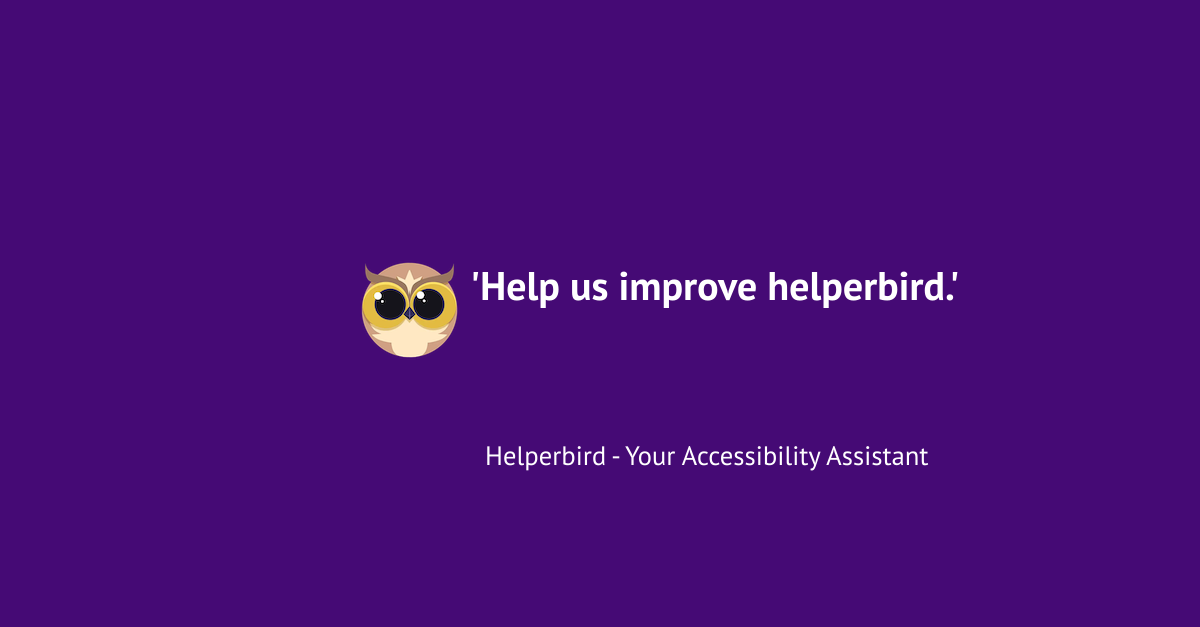
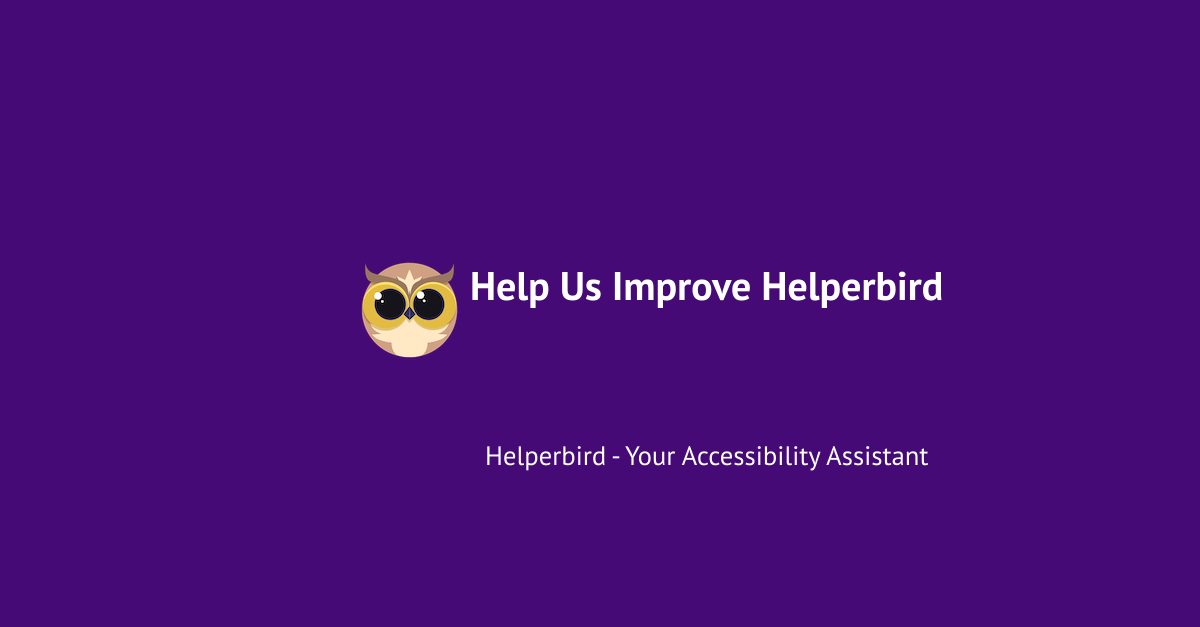
Deploying to gh-pages from  @ 3642a81d4543d754d0eec17c50441be7196d492d 🚀

Changed region(s): [[0.37, 0.4242, 0.8017, 0.4848]]

diff --git a/feedback/index.html b/feedback/index.html
@@ -3,7 +3,7 @@
 <head>
   <meta charset="utf-8">
   <meta name="viewport" content="width=device-width, initial-scale=1.0">
-  <title>Feedback for Helperbird - Helperbird</title>
+  <title>Share Your Feedback with Helperbird - Helperbird</title>
   <link href="/assets/js/main.css" rel="stylesheet" />
   <script>
     if ('serviceWorker' in navigator) {
@@ -12,30 +12,34 @@
   </script>
 
   <link rel="canonical" href="https://www.helperbird.com/feedback/">
-  <meta name="description" content="Feedback for Helperbird,Helperbird for Edge,Helperbird for Firefox,Opendyslexic for Chrome,OpenDyslexic,Text to speech,Voice typing, Dyslexia software,        Reading Mode for Google Chrome,Reading Mode for Edge,Voice typing for chrome,Text to speech for chrome,  text reader, Immersive Reader, dyslexia fonts, Helperbird for Chrome, Accessibility & Dyslexia Software">
-  <meta name="keywords" content="Dyslexia software, Reading Mode for Google Chrome, Voice typing for chrome, Text to speech for chrome,  text reader, Immersive Reader, dyslexia fonts, accessibility software, dyslexia software, Helperbird for Edge, Helperbird for Firefox, Helperbird for Chrome, Opendyslexic for Chrome, OpenDyslexic">
+  <meta name="description" content="We value your feedback at Helperbird. Whether you use Helperbird on Edge, Firefox, or Chrome, your insights help us improve. Share your thoughts on our dyslexia and accessibility software, including features like Text to Speech, Voice Typing, and Reading Mode.
+">
+  <meta name="keywords" content="Dyslexia softwareReading Mode for Google ChromeVoice typing for chromeText to speech for chrometext readerImmersive Readerdyslexia fontsaccessibility softwaredyslexia softwareHelperbird for EdgeHelperbird for FirefoxHelperbird for ChromeOpendyslexic for ChromeOpenDyslexic">
 
   <meta name="theme-color" content="#5046e4">
   <meta itemprop="name" content="Helperbird">
-  <meta itemprop="description" content="Feedback for Helperbird,Helperbird for Edge,Helperbird for Firefox,Opendyslexic for Chrome,OpenDyslexic,Text to speech,Voice typing, Dyslexia software,        Reading Mode for Google Chrome,Reading Mode for Edge,Voice typing for chrome,Text to speech for chrome,  text reader, Immersive Reader, dyslexia fonts, Helperbird for Chrome, Accessibility & Dyslexia Software">
+  <meta itemprop="description" content="We value your feedback at Helperbird. Whether you use Helperbird on Edge, Firefox, or Chrome, your insights help us improve. Share your thoughts on our dyslexia and accessibility software, including features like Text to Speech, Voice Typing, and Reading Mode.
+">
   <meta itemprop="image" content="/assets/images/favicon.png">
 
   <meta name="twitter:card" content="summary_large_image">
   <meta name="twitter:site" content="@helperbird">
   <meta name="twitter:creator" content="@robertjgabriel">
-  <meta name="twitter:title" content="Feedback for Helperbird">
+  <meta name="twitter:title" content="Share Your Feedback with Helperbird">
   <meta property="twitter:domain" content="helperbird.com">
 
   <meta property="twitter:url" content="https://www.helperbird.com/feedback/">
-  <meta name="twitter:description" content="Feedback for Helperbird,Helperbird for Edge,Helperbird for Firefox,Opendyslexic for Chrome,OpenDyslexic,Text to speech,Voice typing, Dyslexia software,        Reading Mode for Google Chrome,Reading Mode for Edge,Voice typing for chrome,Text to speech for chrome,  text reader, Immersive Reader, dyslexia fonts, Helperbird for Chrome, Accessibility & Dyslexia Software">
+  <meta name="twitter:description" content="We value your feedback at Helperbird. Whether you use Helperbird on Edge, Firefox, or Chrome, your insights help us improve. Share your thoughts on our dyslexia and accessibility software, including features like Text to Speech, Voice Typing, and Reading Mode.
+">
 
-  <meta name="twitter:image:alt" content="Helperbird promo art with text saying Feedback for Helperbird">
+  <meta name="twitter:image:alt" content="Helperbird promo art with text saying Share Your Feedback with Helperbird">
   <meta name="twitter:image" content="https://www.helperbird.com/feedback/index.png">
 
   <meta property="og:locale" content="en_US">
   <meta property="og:type" content="website">
-  <meta property="og:title" content="Feedback for Helperbird">
-  <meta property="og:description" content="Feedback for Helperbird,Helperbird for Edge,Helperbird for Firefox,Opendyslexic for Chrome,OpenDyslexic,Text to speech,Voice typing, Dyslexia software,        Reading Mode for Google Chrome,Reading Mode for Edge,Voice typing for chrome,Text to speech for chrome,  text reader, Immersive Reader, dyslexia fonts, Helperbird for Chrome, Accessibility & Dyslexia Software">
+  <meta property="og:title" content="Share Your Feedback with Helperbird">
+  <meta property="og:description" content="We value your feedback at Helperbird. Whether you use Helperbird on Edge, Firefox, or Chrome, your insights help us improve. Share your thoughts on our dyslexia and accessibility software, including features like Text to Speech, Voice Typing, and Reading Mode.
+">
   <meta property="og:url" content="https://www.helperbird.com/feedback/">
   <meta property="og:site_name" content="Helperbird">
   <meta property="og:image" content="https://www.helperbird.com/feedback/index.png">
@@ -2049,63 +2053,57 @@
     
     <main class="mx-auto max-w-7xl pt-12 pb-12 pl-4 pr-4" id="content">
       
+
+
+
+
+
+
+
+
 <div class="lg:mx-auto lg:grid lg:max-w-7xl lg:grid-cols-2 lg:items-start lg:gap-24 lg:px-8">
-
 	<div>
-		<h1 class="leading-relaxed font-sans  mt-2 mb-2 text-3xl font-extrabold leading-8   text-gray-900 sm:text-4xl">
-			Help us improve Helperbird
-		</h1>
-
-	<div class="card bg-white shadow-md mb-8 mt-8 rounded-sm mx-auto max-w-3xl rounded-xl">
-		
-		<div class="card-body rounded-xl">
-
-			<p class="leading-relaxed font-sans   text-xl leading-8 text-black mb-6">Hey there!,</p>
-			<p class="leading-relaxed font-sans   text-xl leading-8 text-black mb-6">
-				I hope this message finds you well. My name is Robert James Gabriel, and I'm the founder of Helperbird.
-			</p>
-			<p class="leading-relaxed font-sans   text-xl leading-8 text-black mb-6">
-				First and foremost, I want to thank you for trying out Helperbird. We appreciate your time and interest in our product. I'm sorry to hear that you have decided to uninstall it, but I completely understand.
-			</p>
-			<p class="leading-relaxed font-sans   text-xl leading-8 text-black mb-6">
-				If you have a moment, we would love to hear your feedback on your experience with Helperbird. Your input is invaluable to us as we strive to improve our product and make it the best it can be. Did you find any missing features, or were you just trying it out? Whatever the reason, we would be grateful to hear your thoughts.
-			</p>
-			<p class="leading-relaxed font-sans   text-xl leading-8 text-black mb-6">
-				Please don't hesitate to share any feedback or criticisms you may have - we take them seriously and use them to drive our development efforts. In fact, we often offer discount codes in exchange for feedback!
-			</p>
-			<p class="leading-relaxed font-sans   text-xl leading-8 text-black mb-6">
-				Thank you again for trying Helperbird, and we hope that you will consider using our product again in the future.
-			</p>
-		
-			<p class="leading-relaxed font-sans   text-xl leading-8 text-black mb-6">Thank you,</p>
-
-			<div class="flex items-center gap-x-6">
-				<img
-					class="h-12 w-12 rounded-full"
-					src="https://www.helperbird.com/assets/images/staff/robert.jpeg"
-					alt="A man (Robert James Gabriel) with short-cropped hair and a beard, wearing round glasses and a light-colored shirt, smiles slightly against a plain white background."
-				/>
-				<div>
-					<h3 class="leading-relaxed font-sans   text-xl font-bold leading-8   text-black">
-						Robert James Gabriel
-					</h3>
-					<p class="leading-relaxed font-sans   text-base font-bold leading-6 text-indigo-600">Helperbird Founder</p>
-				</div>
+	  <h1 class=" mt-2 mb-2 text-3xl font-extrabold text-gray-900 sm:text-4xl">
+		Help us improve Helperbird
+	  </h1>
+	  <div class="card bg-white border-white shadow-md border-2 my-8 mx-auto max-w-4xl rounded-xl">
+		<div class="card-body leading-relaxed font-sans ">
+		  <p class=" text-xl text-black mb-6">Hey there,</p>
+		  <p class="leading-relaxed font-sans   text-xl leading-8 text-black mb-6">
+			I hope this message finds you well. My name is Robert James Gabriel, and I'm the founder of Helperbird.
+		</p>
+		<p class="leading-relaxed font-sans   text-xl leading-8 text-black mb-6">
+			First and foremost, I want to thank you for trying out Helperbird. We appreciate your time and interest in our product. I'm sorry to hear that you have decided to uninstall it, but I completely understand.
+		</p>
+		<p class="leading-relaxed font-sans   text-xl leading-8 text-black mb-6">
+			If you have a moment, we would love to hear your feedback on your experience with Helperbird. Your input is invaluable to us as we strive to improve our product and make it the best it can be. Did you find any missing features, or were you just trying it out? Whatever the reason, we would be grateful to hear your thoughts.
+		</p>
+		<p class="leading-relaxed font-sans   text-xl leading-8 text-black mb-6">
+			Please don't hesitate to share any feedback or criticisms you may have - we take them seriously and use them to drive our development efforts. In fact, we often offer discount codes in exchange for feedback!
+		</p>
+		<p class="leading-relaxed font-sans   text-xl leading-8 text-black mb-6">
+			Thank you again for trying Helperbird, and we hope that you will consider using our product again in the future.
+		</p>
+		 
+		  <p class=" text-xl text-black mb-6">Thank you,</p>
+		  <div class="flex items-center space-x-4">
+			<img 
+			  class="w-12 h-12 rounded-full border-2 border-purple-600" 
+			  src="https://www.helperbird.com/assets/images/staff/robert.jpeg" 
+			  alt="A man (Robert James Gabriel) with short-cropped hair and a beard, wearing round glasses and a light-colored shirt, smiles slightly against a plain white background."
+			>
+			<div>
+			  <h3 class="text-lg font-bold text-gray-900">Robert James Gabriel</h3>
+			  <p class="text-base text-gray-600">Helperbird Founder</p>
 			</div>
-
+		  </div>
 		</div>
-
-
+	  </div>
 	</div>
-</div>
-
-
-
-
+  
 	<div class="relative sm:py-16 lg:py-0">
-		<div class="relative mx-auto max-w-md px-4 sm:max-w-3xl sm:px-6 lg:max-w-none lg:px-0 lg:py-20">
-			<!-- Testimonial card-->
-			<iframe
+	  <div class="relative mx-auto max-w-md px-4 sm:max-w-3xl sm:px-6 lg:max-w-none lg:px-0 lg:py-20">
+		<iframe
 			frameborder="0"
 			height="1006"
 			marginwidth="0"
@@ -2114,9 +2112,14 @@
 			title="Helperbird feedback form"
 			width="100%"
 		>Loading...</iframe>
-		</div>
+	  </div>
 	</div>
-</div>
+  </div>
+  
+
+
+
+
 
     </main>
     <footer class="helperbird-yellow" aria-labelledby="footer-heading">

diff --git a/sitemap/index.html b/sitemap/index.html
@@ -4780,14 +4780,15 @@
       </div>
     
       <div>
-        <dt class="text-base font-semibold leading-7 text-black">Feedback for Helperbird</dt>
-        <dd class="mt-2 text-base leading-7 text-gray-700">Feedback for Helperbird,Helperbird for Edge,Helperbird for Firefox,Opendyslexic for Chrome,OpenDyslexic,Text to speech,Voice typing, Dyslexia software,        Reading Mode for Google Chrome,Reading Mode for Edge,Voice typing for chrome,Text to speech for chrome,  text reader, Immersive Reader, dyslexia fonts, Helperbird for Chrome, Accessibility & Dyslexia Software</dd>
+        <dt class="text-base font-semibold leading-7 text-black">Share Your Feedback with Helperbird</dt>
+        <dd class="mt-2 text-base leading-7 text-gray-700">We value your feedback at Helperbird. Whether you use Helperbird on Edge, Firefox, or Chrome, your insights help us improve. Share your thoughts on our dyslexia and accessibility software, including features like Text to Speech, Voice Typing, and Reading Mode.
+</dd>
         <div class="mt-3">
           <a
             href="/feedback/"
-            title="Visit Feedback for Helperbird"
+            title="Visit Share Your Feedback with Helperbird"
             class="link link-hover text-blue-500 hover:text-blue-700"
-            aria-label="Visit Feedback for Helperbird"
+            aria-label="Visit Share Your Feedback with Helperbird"
             role="link">
             Visit
           </a>

diff --git a/service-worker.js b/service-worker.js
@@ -2144,11 +2144,11 @@ self.__precacheManifest = [
   },
   {
     "url": "feedback/index.html",
-    "revision": "0fa5e07621be468bff349ab652419dd4"
+    "revision": "b05b32c4110f9aa920cf3619ed58b460"
   },
   {
     "url": "feedback/index.png",
-    "revision": "3bbc4028371723caa3ced91bd439774e"
+    "revision": "b8b3a1b03234aa34b4a498d376c7f58f"
   },
   {
     "url": "firefox/index.html",
@@ -3116,7 +3116,7 @@ self.__precacheManifest = [
   },
   {
     "url": "sitemap/index.html",
-    "revision": "8b06e621313fea9bf257a870385870d6"
+    "revision": "12de97325ae94554c083a7566fa45ad2"
   },
   {
     "url": "sitemap/index.png",
